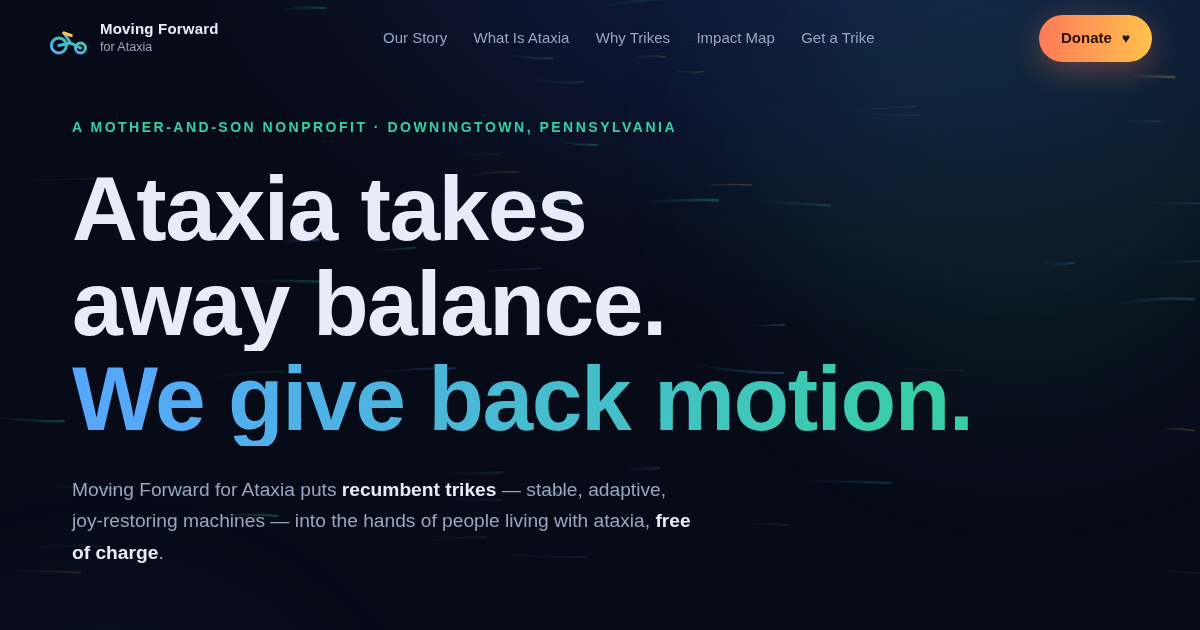
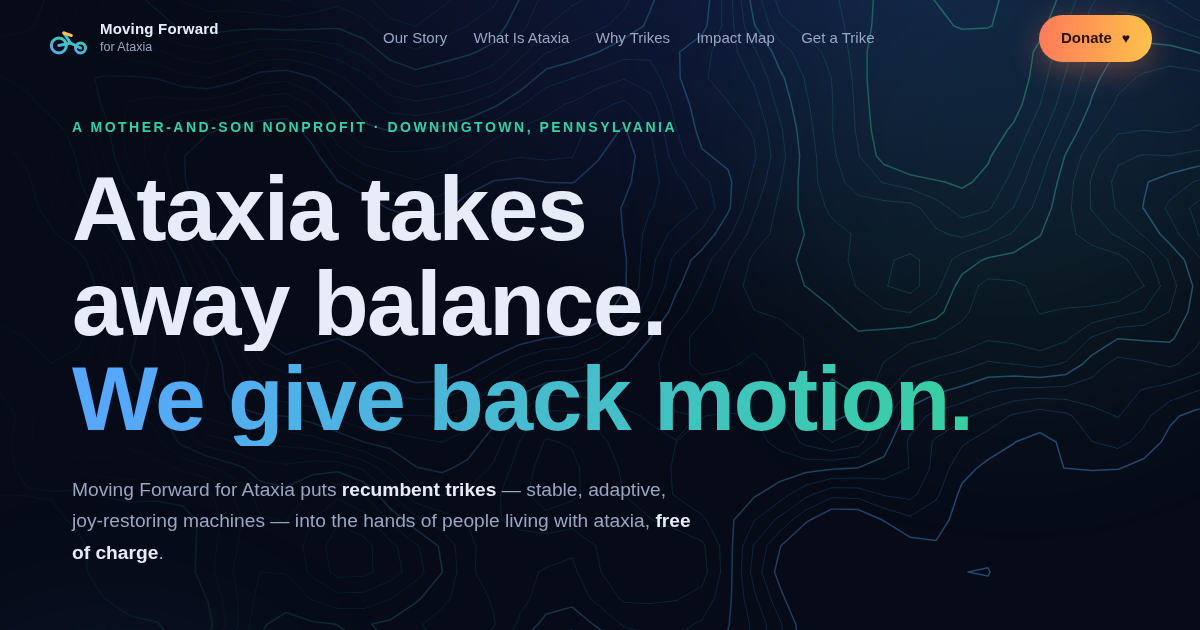
Replace hero background with topographic contours; switch donations to PayPal
- Swap the wiggling particle streaks for a slowly morphing elevation map
  (value noise + marching squares). Nested, map-like contours read as
  trail/terrain rather than random squiggles, and fade out behind the
  headline so type stays crisp. Redraws at 24fps, pauses offscreen,
  renders one static frame under prefers-reduced-motion.
- Point all 11 donate CTAs at the PayPal checkout
- Remove the Help Hope Live 501(c)(3) / tax-deductible claims, which no
  longer describe how gifts are processed; noted in README for follow-up

diff --git a/js/main.js b/js/main.js
@@ -200,81 +200,189 @@ if (gsapOK) {
   });
 }
 
-/* ---------------- Hero particle field ---------------- */
-(function heroParticles() {
+
+/* ---------------- Hero: drifting topographic contours ----------------
+   A slowly morphing elevation map — the trail/terrain motif behind the
+   whole mission. Contours are generated with value noise + marching
+   squares, so the lines are nested and map-like rather than random.  */
+(function heroTerrain() {
   const canvas = document.getElementById('heroCanvas');
-  if (!canvas || prefersReducedMotion) return;
+  if (!canvas) return;
   const ctx = canvas.getContext('2d');
-  let w, h, dpr, particles, raf;
-  const COLORS = ['rgba(88,166,255,', 'rgba(55,208,162,', 'rgba(255,194,75,'];
+
+  /* --- deterministic value noise (no dependencies) --- */
+  const PERM = new Uint8Array(512);
+  (function seed() {
+    let s = 20240607;
+    const p = new Uint8Array(256);
+    for (let i = 0; i < 256; i++) p[i] = i;
+    for (let i = 255; i > 0; i--) {
+      s = (s * 1664525 + 1013904223) >>> 0;
+      const j = s % (i + 1);
+      const t = p[i]; p[i] = p[j]; p[j] = t;
+    }
+    for (let i = 0; i < 512; i++) PERM[i] = p[i & 255];
+  })();
+
+  const smooth = (t) => t * t * (3 - 2 * t);
+  const corner = (x, y) => PERM[(PERM[x & 255] + (y & 255)) & 255] / 127.5 - 1;
+
+  function noise2(x, y) {
+    const xi = Math.floor(x), yi = Math.floor(y);
+    const u = smooth(x - xi), v = smooth(y - yi);
+    const a = corner(xi, yi), b = corner(xi + 1, yi);
+    const c = corner(xi, yi + 1), d = corner(xi + 1, yi + 1);
+    const top = a + (b - a) * u;
+    const bot = c + (d - c) * u;
+    return top + (bot - top) * v;
+  }
+
+  /* three octaves, each drifting differently so the terrain morphs
+     instead of merely sliding past */
+  function elevation(x, y, t) {
+    return (
+      noise2(x, y + t * 0.55) * 0.60 +
+      noise2(x * 2.1 + t * 0.30, y * 2.1) * 0.28 +
+      noise2(x * 4.3, y * 4.3 - t * 0.22) * 0.12
+    );
+  }
+
+  /* marching-squares edge pairs, keyed by corner mask
+     (TL=8, TR=4, BR=2, BL=1); edges: 0=top 1=right 2=bottom 3=left */
+  const CASES = [
+    [], [[3, 2]], [[2, 1]], [[3, 1]],
+    [[0, 1]], [[0, 3], [2, 1]], [[0, 2]], [[3, 0]],
+    [[3, 0]], [[0, 2]], [[0, 1], [3, 2]], [[0, 1]],
+    [[3, 1]], [[2, 1]], [[3, 2]], [],
+  ];
+
+  const CELL = 26;          /* px per grid cell */
+  const LEVELS = 13;        /* number of contour lines */
+  const SCALE = 1 / 300;    /* noise units per px */
+
+  let w = 0, h = 0, cols = 0, rows = 0, field = null, raf = null;
 
   function resize() {
-    dpr = Math.min(devicePixelRatio || 1, 2);
+    const dpr = Math.min(devicePixelRatio || 1, 2);
     w = canvas.clientWidth;
     h = canvas.clientHeight;
-    canvas.width = w * dpr;
-    canvas.height = h * dpr;
+    canvas.width = Math.round(w * dpr);
+    canvas.height = Math.round(h * dpr);
     ctx.setTransform(dpr, 0, 0, dpr, 0, 0);
+    cols = Math.ceil(w / CELL) + 1;
+    rows = Math.ceil(h / CELL) + 1;
+    field = new Float32Array((cols + 1) * (rows + 1));
   }
 
-  function spawn(x) {
-    const speed = 0.35 + Math.random() * 1.15;
-    return {
-      x: x !== undefined ? x : Math.random() * w,
-      y: Math.random() * h,
-      vx: speed,
-      len: 26 + Math.random() * 70,
-      amp: 6 + Math.random() * 22,
-      phase: Math.random() * Math.PI * 2,
-      freq: 0.002 + Math.random() * 0.004,
-      color: COLORS[(Math.random() * COLORS.length) | 0],
-      alpha: 0.08 + Math.random() * 0.22,
-      width: 1 + Math.random() * 1.8,
-    };
-  }
-
-  function init() {
-    resize();
-    const n = Math.min(90, Math.max(40, Math.floor(w / 16)));
-    particles = Array.from({ length: n }, () => spawn());
-  }
-
-  let t = 0;
-  function frame() {
-    t += 1;
-    ctx.clearRect(0, 0, w, h);
-    for (const p of particles) {
-      p.x += p.vx;
-      const yOff = Math.sin(t * p.freq * 60 + p.phase + p.x * 0.004) * p.amp;
-      if (p.x - p.len > w) {
-        Object.assign(p, spawn(-p.len));
+  function buildField(t) {
+    for (let j = 0; j <= rows; j++) {
+      const y = j * CELL * SCALE;
+      for (let i = 0; i <= cols; i++) {
+        field[j * (cols + 1) + i] = elevation(i * CELL * SCALE, y, t);
       }
-      const grad = ctx.createLinearGradient(p.x - p.len, 0, p.x, 0);
-      grad.addColorStop(0, p.color + '0)');
-      grad.addColorStop(1, p.color + p.alpha + ')');
-      ctx.strokeStyle = grad;
-      ctx.lineWidth = p.width;
-      ctx.lineCap = 'round';
+    }
+  }
+
+  function draw(t) {
+    buildField(t);
+    ctx.clearRect(0, 0, w, h);
+    ctx.lineJoin = 'round';
+    ctx.lineCap = 'round';
+
+    for (let L = 0; L < LEVELS; L++) {
+      const threshold = -0.42 + (L / (LEVELS - 1)) * 0.84;
+      const index = L % 4 === 0; /* every 4th line reads as an index contour */
+      const mix = L / (LEVELS - 1);
+      const r = Math.round(88 + (55 - 88) * mix);
+      const g = Math.round(166 + (208 - 166) * mix);
+      const b = Math.round(255 + (162 - 255) * mix);
+
       ctx.beginPath();
-      ctx.moveTo(p.x - p.len, p.y + Math.sin(t * p.freq * 60 + p.phase + (p.x - p.len) * 0.004) * p.amp);
-      ctx.quadraticCurveTo(p.x - p.len / 2, p.y + yOff * 1.15, p.x, p.y + yOff);
+      for (let j = 0; j < rows; j++) {
+        for (let i = 0; i < cols; i++) {
+          const idx = j * (cols + 1) + i;
+          const a = field[idx];              /* TL */
+          const bb = field[idx + 1];         /* TR */
+          const c = field[idx + cols + 2];   /* BR */
+          const d = field[idx + cols + 1];   /* BL */
+
+          let mask = 0;
+          if (a > threshold) mask |= 8;
+          if (bb > threshold) mask |= 4;
+          if (c > threshold) mask |= 2;
+          if (d > threshold) mask |= 1;
+          const segs = CASES[mask];
+          if (!segs.length) continue;
+
+          const x0 = i * CELL, y0 = j * CELL;
+          const pt = (edge) => {
+            switch (edge) {
+              case 0: return [x0 + CELL * ((threshold - a) / (bb - a)), y0];
+              case 1: return [x0 + CELL, y0 + CELL * ((threshold - bb) / (c - bb))];
+              case 2: return [x0 + CELL * ((threshold - d) / (c - d)), y0 + CELL];
+              default: return [x0, y0 + CELL * ((threshold - a) / (d - a))];
+            }
+          };
+          for (const [e1, e2] of segs) {
+            const p1 = pt(e1), p2 = pt(e2);
+            ctx.moveTo(p1[0], p1[1]);
+            ctx.lineTo(p2[0], p2[1]);
+          }
+        }
+      }
+      ctx.strokeStyle = `rgba(${r},${g},${b},${index ? 0.38 : 0.18})`;
+      ctx.lineWidth = index ? 1.5 : 1;
       ctx.stroke();
     }
-    raf = requestAnimationFrame(frame);
+
+    /* fade the map back where the headline sits so type stays crisp */
+    ctx.globalCompositeOperation = 'destination-out';
+    const fade = ctx.createLinearGradient(0, 0, w * 0.8, 0);
+    fade.addColorStop(0, 'rgba(0,0,0,0.94)');
+    fade.addColorStop(0.55, 'rgba(0,0,0,0.38)');
+    fade.addColorStop(1, 'rgba(0,0,0,0)');
+    ctx.fillStyle = fade;
+    ctx.fillRect(0, 0, w, h);
+    ctx.globalCompositeOperation = 'source-over';
   }
 
-  const io = new IntersectionObserver(([entry]) => {
-    if (entry.isIntersecting) {
-      if (!raf) raf = requestAnimationFrame(frame);
-    } else {
-      cancelAnimationFrame(raf);
-      raf = null;
-    }
-  });
-  io.observe(canvas);
+  /* redraw at ~24fps: the drift is slow, so a full 60fps rebuild is waste */
+  const FRAME = 1000 / 24;
+  let last = 0;
+  let clock = 0;
 
+  function loop(now) {
+    raf = requestAnimationFrame(loop);
+    if (now - last < FRAME) return;
+    clock += (now - last) / 1000;
+    last = now;
+    draw(clock * 0.08);
+  }
+
+  function start() {
+    if (raf || prefersReducedMotion) return;
+    last = performance.now();
+    raf = requestAnimationFrame(loop);
+  }
+  function stop() {
+    if (!raf) return;
+    cancelAnimationFrame(raf);
+    raf = null;
+  }
+
+  resize();
+  draw(0); /* first paint is static, so reduced-motion users still get the map */
+
+  if (!prefersReducedMotion) {
+    new IntersectionObserver(([e]) => (e.isIntersecting ? start() : stop())).observe(canvas);
+  }
+
+  let resizeTimer;
   addEventListener('resize', () => {
-    init();
+    clearTimeout(resizeTimer);
+    resizeTimer = setTimeout(() => {
+      resize();
+      draw(clock * 0.08);
+    }, 150);
   });
-  init();
 })();

diff --git a/index.html b/index.html
@@ -47,7 +47,7 @@
       <a href="#get-a-trike">Get a Trike</a>
     </nav>
     <div class="nav__actions">
-      <a class="btn btn--donate nav__donate" href="https://helphopelive.org/campaign/23067/" target="_blank" rel="noopener">Donate<span class="btn--donate__heart" aria-hidden="true">♥</span></a>
+      <a class="btn btn--donate nav__donate" href="https://www.paypal.com/ncp/payment/7JQHV38D94YJ6" target="_blank" rel="noopener">Donate<span class="btn--donate__heart" aria-hidden="true">♥</span></a>
       <button class="nav__burger" id="navBurger" aria-label="Open menu" aria-expanded="false" aria-controls="navLinks">
         <span></span><span></span><span></span>
       </button>
@@ -70,7 +70,7 @@
       </h1>
       <p class="hero__sub reveal">Moving Forward for Ataxia puts <strong>recumbent trikes</strong> — stable, adaptive, joy-restoring machines — into the hands of people living with ataxia, <strong>free of charge</strong>.</p>
       <div class="hero__cta reveal">
-        <a class="btn btn--donate btn--lg" href="https://helphopelive.org/campaign/23067/" target="_blank" rel="noopener">Donate now — fund the next trike</a>
+        <a class="btn btn--donate btn--lg" href="https://www.paypal.com/ncp/payment/7JQHV38D94YJ6" target="_blank" rel="noopener">Donate now — fund the next trike</a>
         <a class="btn btn--ghost btn--lg" href="#story">See how it started</a>
       </div>
       <dl class="hero__stats reveal" id="heroStats">
@@ -283,7 +283,7 @@
         <h3>The catch: a fitted adaptive trike costs <span class="grad">$3,000–$6,000+</span></h3>
         <p>Insurance almost never covers it. For someone on a fixed disability income, that price tag means "never." <strong>That's exactly the gap this charity exists to close.</strong></p>
       </div>
-      <a class="btn btn--donate" href="https://helphopelive.org/campaign/23067/" target="_blank" rel="noopener">Close the gap — donate</a>
+      <a class="btn btn--donate" href="https://www.paypal.com/ncp/payment/7JQHV38D94YJ6" target="_blank" rel="noopener">Close the gap — donate</a>
     </aside>
   </section>
 
@@ -332,7 +332,7 @@
       <li class="step reveal">
         <span class="step__num">1</span>
         <h3>You give</h3>
-        <p>Every dollar goes into the Moving Forward Fund, hosted by <strong>Help Hope Live</strong>, an established 501(c)(3) nonprofit — so your gift is tax-deductible.</p>
+        <p>Every dollar you give goes straight into the trike fund — no middleman, no overhead skimmed off the top. Give in seconds with a card or a PayPal account.</p>
       </li>
       <li class="step reveal">
         <span class="step__num">2</span>
@@ -361,22 +361,22 @@
       <p class="donate__lede">Seventeen riders are back on the road because people like you gave. Rider #18 is waiting. 100% of what we raise goes toward trikes and gear for people living with ataxia.</p>
 
       <div class="donate__tiers" role="list">
-        <a role="listitem" class="tier" href="https://helphopelive.org/campaign/23067/" target="_blank" rel="noopener">
+        <a role="listitem" class="tier" href="https://www.paypal.com/ncp/payment/7JQHV38D94YJ6" target="_blank" rel="noopener">
           <strong>$25</strong><span>keeps a rider rolling — helps cover flags, lights, and safety gear</span>
         </a>
-        <a role="listitem" class="tier" href="https://helphopelive.org/campaign/23067/" target="_blank" rel="noopener">
+        <a role="listitem" class="tier" href="https://www.paypal.com/ncp/payment/7JQHV38D94YJ6" target="_blank" rel="noopener">
           <strong>$100</strong><span>funds a mile of our next fundraising ride — and then some</span>
         </a>
-        <a role="listitem" class="tier" href="https://helphopelive.org/campaign/23067/" target="_blank" rel="noopener">
+        <a role="listitem" class="tier" href="https://www.paypal.com/ncp/payment/7JQHV38D94YJ6" target="_blank" rel="noopener">
           <strong>$500</strong><span>helps custom-fit a trike to a rider's body and needs</span>
         </a>
-        <a role="listitem" class="tier tier--hero" href="https://helphopelive.org/campaign/23067/" target="_blank" rel="noopener">
+        <a role="listitem" class="tier tier--hero" href="https://www.paypal.com/ncp/payment/7JQHV38D94YJ6" target="_blank" rel="noopener">
           <strong>$3,500</strong><span>an entire trike — a whole life set back in motion</span><em>changes everything</em>
         </a>
       </div>
 
-      <a class="btn btn--donate btn--xl" href="https://helphopelive.org/campaign/23067/" target="_blank" rel="noopener">Donate on Help Hope Live →</a>
-      <p class="donate__fine">Donations are processed securely by Help Hope Live, a 501(c)(3) nonprofit (tax-deductible as allowed by law). Prefer another way to give, or want to sponsor a ride? <a href="https://www.facebook.com/movingforwardforataxia/" target="_blank" rel="noopener">Message us on Facebook</a>.</p>
+      <a class="btn btn--donate btn--xl" href="https://www.paypal.com/ncp/payment/7JQHV38D94YJ6" target="_blank" rel="noopener">Give securely with PayPal →</a>
+      <p class="donate__fine">Payments are processed securely by PayPal — you can give with any major debit or credit card. Prefer another way to give, or want to sponsor a ride? <a href="https://www.facebook.com/movingforwardforataxia/" target="_blank" rel="noopener">Message us on Facebook</a>.</p>
     </div>
 
     <div class="donate__other">
@@ -394,7 +394,7 @@
         <div class="way">
           <h3>🏢 Give through work</h3>
           <p>Many employers match charitable gifts — your $100 can become $200 with one email to HR.</p>
-          <a class="btn btn--ghost btn--sm" href="https://helphopelive.org/campaign/23067/" target="_blank" rel="noopener">Start a matched gift</a>
+          <a class="btn btn--ghost btn--sm" href="https://www.paypal.com/ncp/payment/7JQHV38D94YJ6" target="_blank" rel="noopener">Start a matched gift</a>
         </div>
       </div>
     </div>
@@ -426,14 +426,14 @@
         <a href="https://www.facebook.com/movingforwardforataxia/" target="_blank" rel="noopener">Facebook</a>
       </nav>
       <div class="footer__cta">
-        <a class="btn btn--donate" href="https://helphopelive.org/campaign/23067/" target="_blank" rel="noopener">Donate now</a>
+        <a class="btn btn--donate" href="https://www.paypal.com/ncp/payment/7JQHV38D94YJ6" target="_blank" rel="noopener">Donate now</a>
       </div>
     </div>
-    <p class="footer__legal">Fundraising for Moving Forward for Ataxia is conducted through the Moving Forward Fund at Help Hope Live, a 501(c)(3) nonprofit. &copy; <span id="year"></span> Moving Forward for Ataxia.</p>
+    <p class="footer__legal">Every donation goes toward recumbent trikes and gear for people living with ataxia. &copy; <span id="year"></span> Moving Forward for Ataxia.</p>
   </footer>
 
   <!-- Floating donate pill (appears after hero) -->
-  <a class="donate-pill" id="donatePill" href="https://helphopelive.org/campaign/23067/" target="_blank" rel="noopener" aria-label="Donate to Moving Forward for Ataxia">
+  <a class="donate-pill" id="donatePill" href="https://www.paypal.com/ncp/payment/7JQHV38D94YJ6" target="_blank" rel="noopener" aria-label="Donate to Moving Forward for Ataxia">
     <span class="donate-pill__pulse" aria-hidden="true"></span>♥ Donate
   </a>
 

diff --git a/README.md b/README.md
@@ -32,7 +32,8 @@ To point `movingforwardforataxia.org` at it, add a `CNAME` file containing the d
 
 ## Things to verify with Monica
 
-- **Donate links** point to the Moving Forward Fund at Help Hope Live: `https://helphopelive.org/campaign/23067/` (found via their press coverage — confirm it's current).
+- **Donate links** all point to the PayPal checkout Monica provided: `https://www.paypal.com/ncp/payment/7JQHV38D94YJ6`. To change it, search that URL in `index.html` (11 places).
+- **Tax-deductible language was removed.** The earlier draft claimed 501(c)(3) status via Help Hope Live as fiscal sponsor. Since donations now go through PayPal directly, that claim no longer applies as written. If Moving Forward for Ataxia is a registered 501(c)(3) (or still runs gifts through a fiscal sponsor), add the entity name and EIN back to the donate fine print and footer — donors look for it, and it measurably lifts giving.
 - **Contact**: the site currently routes contact through the [Facebook page](https://www.facebook.com/movingforwardforataxia/). If there's an official email, add it in the footer and the "Get a Trike" section.
 - **Stats** ($55,000+ raised, 17 trikes, 13 states, 2 countries, 1,500-mile Maine→Ohio ride, 41 days, 55,000 ft of climbing, 100-mile single rides) came from press coverage (Rails-to-Trails Conservancy, Brandywine Conservancy, Help Hope Live). Update the numbers in `index.html` as they grow — search for `data-count` for the animated counters.
 - **Map locations** are in `js/globe.js` (`LOCATIONS`) and mirrored as chips in `index.html`. Add new ones in both places.
